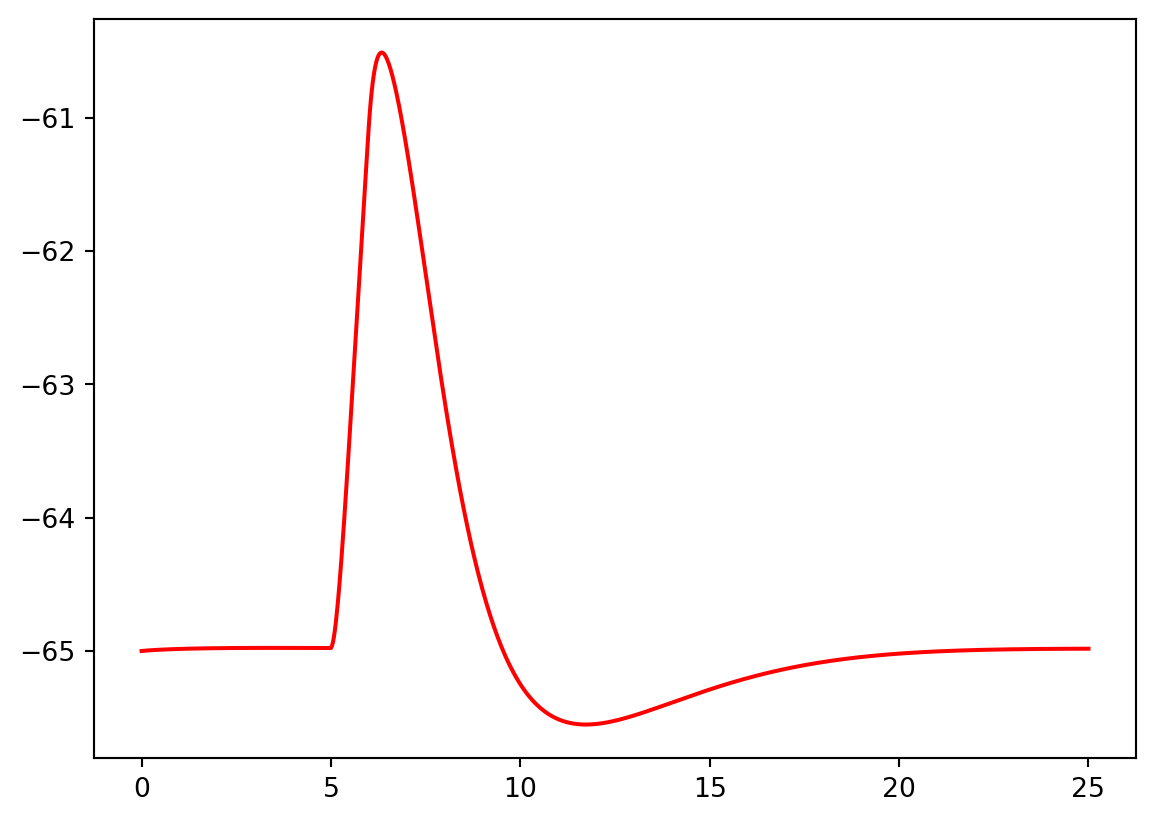
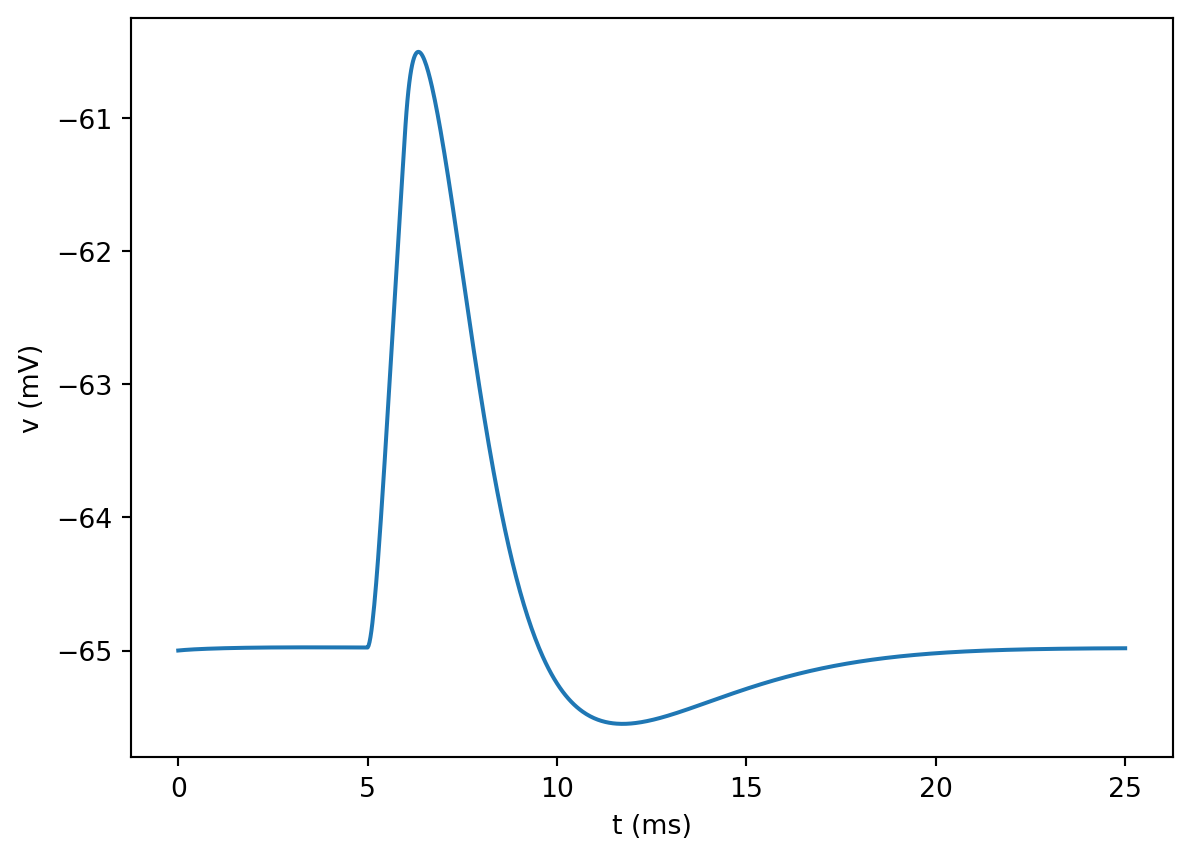
updated

diff --git a/docs/Simulations/Neuron/Introduction.html b/docs/Simulations/Neuron/Introduction.html
@@ -259,7 +259,7 @@ pre > code.sourceCode > span > a:first-child::before { text-decoration: underlin
 <section id="ball-and-stick-1-basic-cell" class="level1">
 <h1><a href="https://nrn.readthedocs.io/en/8.2.6/tutorials/ball-and-stick-1.html"><strong>Ball and stick 1: Basic cell</strong></a></h1>
 <p>Load the necessary modules</p>
-<div id="95b2ffff" class="cell" data-execution_count="1">
+<div id="23f2f063" class="cell" data-execution_count="1">
 <div class="sourceCode cell-code" id="cb1"><pre class="sourceCode python code-with-copy"><code class="sourceCode python"><span id="cb1-1"><a href="#cb1-1" aria-hidden="true" tabindex="-1"></a><span class="im">from</span> neuron <span class="im">import</span> h</span>
 <span id="cb1-2"><a href="#cb1-2" aria-hidden="true" tabindex="-1"></a><span class="im">from</span> neuron.units <span class="im">import</span> ms, mV, µm </span>
 <span id="cb1-3"><a href="#cb1-3" aria-hidden="true" tabindex="-1"></a></span>
@@ -272,7 +272,7 @@ pre > code.sourceCode > span > a:first-child::before { text-decoration: underlin
 </div>
 </div>
 <p>Define one cell with soma and dendrite (with necessary parameters, morphology) using python class</p>
-<div id="f5a43024" class="cell" data-execution_count="2">
+<div id="ade341b6" class="cell" data-execution_count="2">
 <div class="sourceCode cell-code" id="cb3"><pre class="sourceCode python code-with-copy"><code class="sourceCode python"><span id="cb3-1"><a href="#cb3-1" aria-hidden="true" tabindex="-1"></a><span class="kw">class</span> BallAndStick:</span>
 <span id="cb3-2"><a href="#cb3-2" aria-hidden="true" tabindex="-1"></a>    <span class="kw">def</span> <span class="fu">__init__</span>(<span class="va">self</span>, gid):</span>
 <span id="cb3-3"><a href="#cb3-3" aria-hidden="true" tabindex="-1"></a>        <span class="va">self</span>._gid <span class="op">=</span> gid</span>
@@ -309,7 +309,7 @@ pre > code.sourceCode > span > a:first-child::before { text-decoration: underlin
 <span id="cb3-34"><a href="#cb3-34" aria-hidden="true" tabindex="-1"></a></span>
 <span id="cb3-35"><a href="#cb3-35" aria-hidden="true" tabindex="-1"></a>my_cell <span class="op">=</span> BallAndStick(<span class="dv">0</span>)</span></code><button title="Copy to Clipboard" class="code-copy-button"><i class="bi"></i></button></pre></div>
 </div>
-<div id="1ab9504a" class="cell" data-execution_count="3">
+<div id="b78afdf9" class="cell" data-execution_count="3">
 <div class="sourceCode cell-code" id="cb4"><pre class="sourceCode python code-with-copy"><code class="sourceCode python"><span id="cb4-1"><a href="#cb4-1" aria-hidden="true" tabindex="-1"></a><span class="co"># Make sure soma is hh and dendtrite is passive membrane</span></span>
 <span id="cb4-2"><a href="#cb4-2" aria-hidden="true" tabindex="-1"></a><span class="cf">for</span> sec <span class="kw">in</span> h.allsec():</span>
 <span id="cb4-3"><a href="#cb4-3" aria-hidden="true" tabindex="-1"></a>    <span class="bu">print</span>(<span class="st">"</span><span class="sc">%s</span><span class="st">: </span><span class="sc">%s</span><span class="st">"</span> <span class="op">%</span> (sec, <span class="st">", "</span>.join(sec.psection()[<span class="st">"density_mechs"</span>].keys())))</span></code><button title="Copy to Clipboard" class="code-copy-button"><i class="bi"></i></button></pre></div>
@@ -320,7 +320,7 @@ BallAndStick[0].dend: pas</code></pre>
 </div>
 <section id="stimulus" class="level4">
 <h4 class="anchored" data-anchor-id="stimulus">Stimulus</h4>
-<div id="ebb98ffa" class="cell" data-execution_count="4">
+<div id="95843276" class="cell" data-execution_count="4">
 <div class="sourceCode cell-code" id="cb6"><pre class="sourceCode python code-with-copy"><code class="sourceCode python"><span id="cb6-1"><a href="#cb6-1" aria-hidden="true" tabindex="-1"></a>stim <span class="op">=</span> h.IClamp(my_cell.dend(<span class="dv">1</span>))  <span class="co"># at the origin of the dentrite</span></span>
 <span id="cb6-2"><a href="#cb6-2" aria-hidden="true" tabindex="-1"></a>stim.delay <span class="op">=</span> <span class="dv">5</span> <span class="co">#ms</span></span>
 <span id="cb6-3"><a href="#cb6-3" aria-hidden="true" tabindex="-1"></a>stim.dur <span class="op">=</span> <span class="dv">1</span> <span class="co">#ms</span></span>
@@ -329,14 +329,14 @@ BallAndStick[0].dend: pas</code></pre>
 </section>
 <section id="recording-soma-voltage" class="level4">
 <h4 class="anchored" data-anchor-id="recording-soma-voltage">Recording soma voltage</h4>
-<div id="042d3e4d" class="cell" data-execution_count="5">
+<div id="3235b8c6" class="cell" data-execution_count="5">
 <div class="sourceCode cell-code" id="cb7"><pre class="sourceCode python code-with-copy"><code class="sourceCode python"><span id="cb7-1"><a href="#cb7-1" aria-hidden="true" tabindex="-1"></a>soma_v <span class="op">=</span> h.Vector().record(my_cell.soma(<span class="fl">0.5</span>)._ref_v)</span>
 <span id="cb7-2"><a href="#cb7-2" aria-hidden="true" tabindex="-1"></a>t <span class="op">=</span> h.Vector().record(h._ref_t)</span></code><button title="Copy to Clipboard" class="code-copy-button"><i class="bi"></i></button></pre></div>
 </div>
 </section>
 <section id="initialization" class="level4">
 <h4 class="anchored" data-anchor-id="initialization">Initialization</h4>
-<div id="d1f89b65" class="cell" data-execution_count="6">
+<div id="2cc5c63b" class="cell" data-execution_count="6">
 <div class="sourceCode cell-code" id="cb8"><pre class="sourceCode python code-with-copy"><code class="sourceCode python"><span id="cb8-1"><a href="#cb8-1" aria-hidden="true" tabindex="-1"></a>h.finitialize(<span class="op">-</span><span class="dv">65</span> <span class="op">*</span> mV) <span class="co"># initialize membrane potential </span></span>
 <span id="cb8-2"><a href="#cb8-2" aria-hidden="true" tabindex="-1"></a></span>
 <span id="cb8-3"><a href="#cb8-3" aria-hidden="true" tabindex="-1"></a>h.continuerun(<span class="dv">25</span> <span class="op">*</span> ms) <span class="co"># run until time 25 ms:</span></span></code><button title="Copy to Clipboard" class="code-copy-button"><i class="bi"></i></button></pre></div>
@@ -344,13 +344,16 @@ BallAndStick[0].dend: pas</code></pre>
 <pre><code>0.0</code></pre>
 </div>
 </div>
-<div id="7a0abccf" class="cell" data-execution_count="7">
-<div class="sourceCode cell-code" id="cb10"><pre class="sourceCode python code-with-copy"><code class="sourceCode python"><span id="cb10-1"><a href="#cb10-1" aria-hidden="true" tabindex="-1"></a>plt.plot(t.as_numpy(),soma_v.as_numpy(),<span class="st">'r-'</span>) </span>
-<span id="cb10-2"><a href="#cb10-2" aria-hidden="true" tabindex="-1"></a>plt.show()</span></code><button title="Copy to Clipboard" class="code-copy-button"><i class="bi"></i></button></pre></div>
+<div id="6d418de1" class="cell" data-execution_count="7">
+<div class="sourceCode cell-code" id="cb10"><pre class="sourceCode python code-with-copy"><code class="sourceCode python"><span id="cb10-1"><a href="#cb10-1" aria-hidden="true" tabindex="-1"></a>plt.figure()</span>
+<span id="cb10-2"><a href="#cb10-2" aria-hidden="true" tabindex="-1"></a>plt.plot(t, soma_v)</span>
+<span id="cb10-3"><a href="#cb10-3" aria-hidden="true" tabindex="-1"></a>plt.xlabel(<span class="st">"t (ms)"</span>)</span>
+<span id="cb10-4"><a href="#cb10-4" aria-hidden="true" tabindex="-1"></a>plt.ylabel(<span class="st">"v (mV)"</span>)</span>
+<span id="cb10-5"><a href="#cb10-5" aria-hidden="true" tabindex="-1"></a>plt.show()</span></code><button title="Copy to Clipboard" class="code-copy-button"><i class="bi"></i></button></pre></div>
 <div class="cell-output cell-output-display">
 <div>
 <figure class="figure">
-<p><img src="Introduction_files/figure-html/cell-8-output-1.png" width="578" height="411" class="figure-img"></p>
+<p><img src="Introduction_files/figure-html/cell-8-output-1.png" width="596" height="429" class="figure-img"></p>
 </figure>
 </div>
 </div>

diff --git a/docs/Tutorials/RandomProcess/ARMA.html b/docs/Tutorials/RandomProcess/ARMA.html
@@ -70,6 +70,49 @@ ul.task-list li input[type="checkbox"] {
   }
 }</script>
 
+  <script>window.backupDefine = window.define; window.define = undefined;</script><script src="https://cdn.jsdelivr.net/npm/katex@latest/dist/katex.min.js"></script>
+  <script>document.addEventListener("DOMContentLoaded", function () {
+ var mathElements = document.getElementsByClassName("math");
+ var macros = [];
+ for (var i = 0; i < mathElements.length; i++) {
+  var texText = mathElements[i].firstChild;
+  if (mathElements[i].tagName == "SPAN") {
+   katex.render(texText.data, mathElements[i], {
+    displayMode: mathElements[i].classList.contains('display'),
+    throwOnError: false,
+    macros: macros,
+    fleqn: false
+   });
+}}});
+  </script>
+  <script>window.define = window.backupDefine; window.backupDefine = undefined;</script><link rel="stylesheet" href="https://cdn.jsdelivr.net/npm/katex@latest/dist/katex.min.css">
+
+<script type="text/javascript">
+const typesetMath = (el) => {
+  if (window.MathJax) {
+    // MathJax Typeset
+    window.MathJax.typeset([el]);
+  } else if (window.katex) {
+    // KaTeX Render
+    var mathElements = el.getElementsByClassName("math");
+    var macros = [];
+    for (var i = 0; i < mathElements.length; i++) {
+      var texText = mathElements[i].firstChild;
+      if (mathElements[i].tagName == "SPAN") {
+        window.katex.render(texText.data, mathElements[i], {
+          displayMode: mathElements[i].classList.contains('display'),
+          throwOnError: false,
+          macros: macros,
+          fleqn: false
+        });
+      }
+    }
+  }
+}
+window.Quarto = {
+  typesetMath
+};
+</script>
 
 <link rel="stylesheet" href="../../styles.css">
 </head>
@@ -248,8 +291,16 @@ ul.task-list li input[type="checkbox"] {
 
 <section id="auto-regressive-moving-average-arma-processess" class="level1">
 <h1>Auto-regressive moving average (ARMA) processess</h1>
+<p>Let <span class="math inline">x(n)</span> and <span class="math inline">v(n)</span> are stationary random processes. If they are related by the linear constant coefficient differential equations</p>
+<p><span class="math display">
+x(n) + \sum_{i=1}^{p} a_p(l) x(n-l)  = \sum_{l=0}^q b_q(l)v(n-l)
+</span></p>
+<p>then <span class="math inline">x(n)</span> is called an ARMA(p,q) process.</p>
+<section id="autocorrelation" class="level4">
+<h4 class="anchored" data-anchor-id="autocorrelation">Autocorrelation</h4>
 
 
+</section>
 </section>
 
 </main> <!-- /main -->

diff --git a/docs/Tutorials/RandomProcess/RandomProcessIntro.html b/docs/Tutorials/RandomProcess/RandomProcessIntro.html
@@ -248,6 +248,13 @@ ul.task-list li input[type="checkbox"] {
 
 <section id="list-of-tutorials-here" class="level1">
 <h1>List of tutorials here</h1>
+<p>A special list of random processes we discuss in this tutorial are</p>
+<ol type="1">
+<li><p>ARMA</p></li>
+<li><p>AR</p></li>
+<li><p>MA</p></li>
+<li><p>Harmonic processes</p></li>
+</ol>
 
 
 </section>
